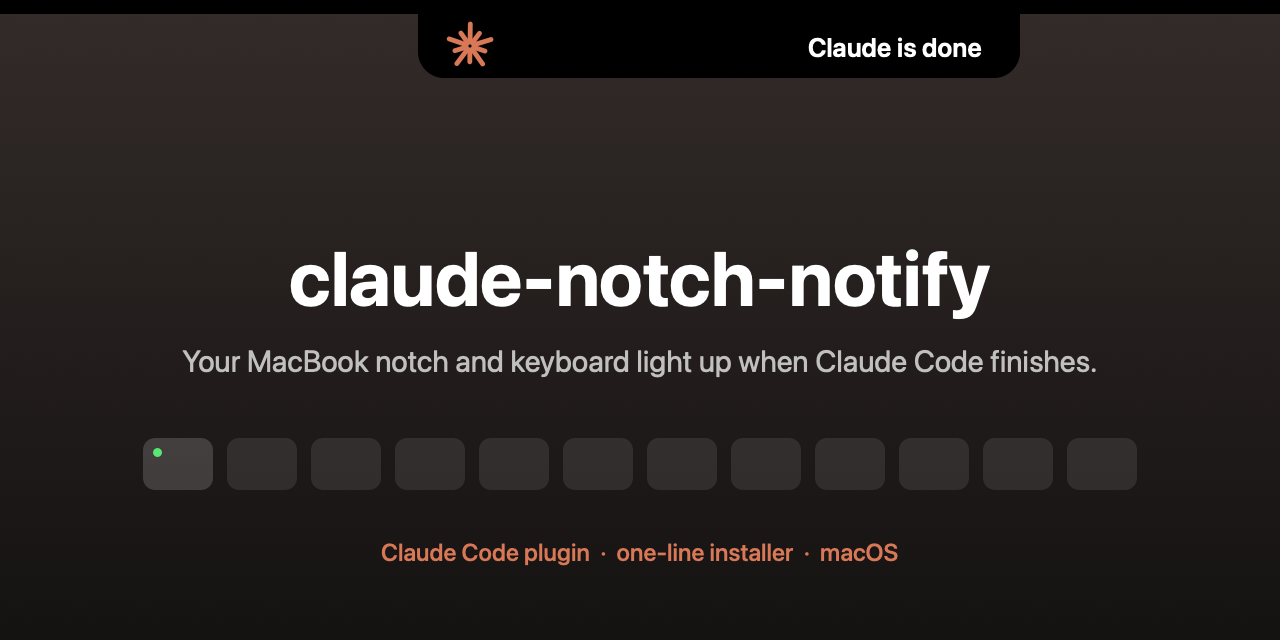
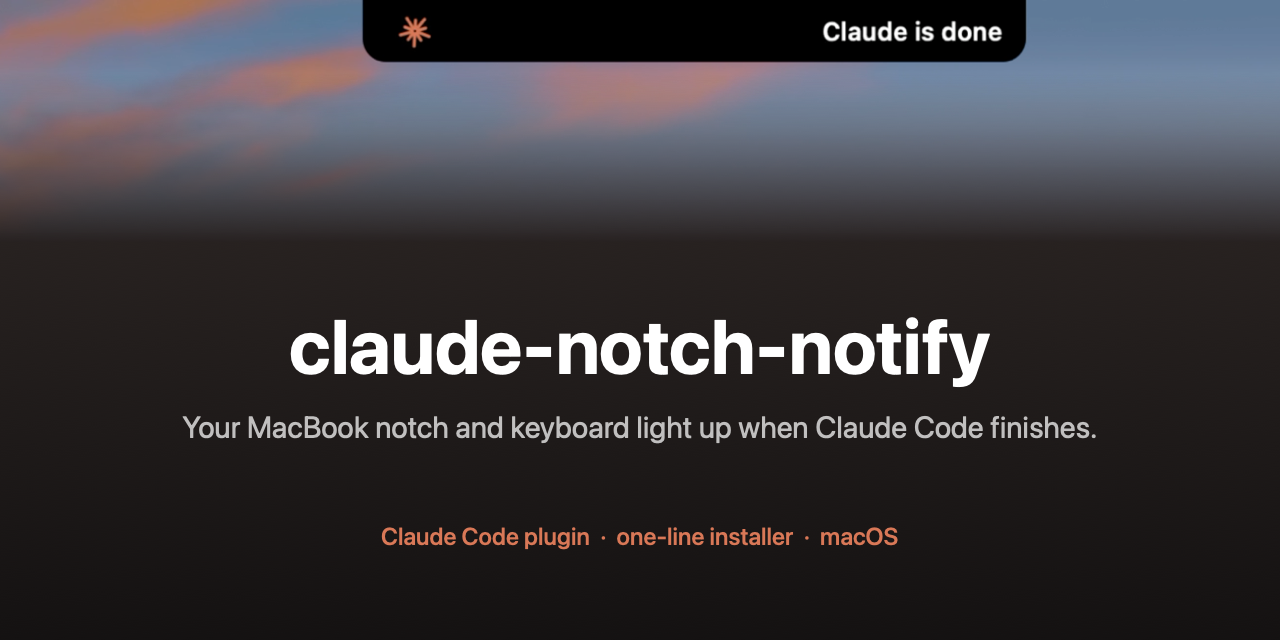
Add demo GIF and a social preview from a real recording
- assets/demo.gif at the top of the README
- assets/social-preview.png now uses a frame from the recording
- scripts/make-gif.swift can trim with start and end times

diff --git a/scripts/make-gif.swift b/scripts/make-gif.swift
@@ -1,6 +1,6 @@
 // Turns a screen recording into a looping GIF using macOS's built-in AVFoundation and ImageIO.
 //
-// Run: swift scripts/make-gif.swift <input.mov> <output.gif> [fps=15] [width=original]
+// Run: swift scripts/make-gif.swift <input.mov> <output.gif> [fps=15] [width=original] [start=0] [end=duration]
 
 import AVFoundation
 import ImageIO
@@ -8,16 +8,19 @@ import UniformTypeIdentifiers
 
 let args = CommandLine.arguments
 guard args.count >= 3 else {
-    print("Usage: swift scripts/make-gif.swift <input.mov> <output.gif> [fps=15] [width]")
+    print("Usage: swift scripts/make-gif.swift <input.mov> <output.gif> [fps=15] [width] [start] [end]")
     exit(1)
 }
 let input = URL(fileURLWithPath: args[1])
 let output = URL(fileURLWithPath: args[2])
 let fps = args.count > 3 ? (Double(args[3]) ?? 15) : 15
-let width = args.count > 4 ? Double(args[4]) : nil
+let width = args.count > 4 ? Double(args[4]).flatMap { $0 > 0 ? $0 : nil } : nil // 0 keeps the original width
 
 let asset = AVURLAsset(url: input)
-let duration = CMTimeGetSeconds(asset.duration)
+let length = CMTimeGetSeconds(asset.duration)
+let start = args.count > 5 ? (Double(args[5]) ?? 0) : 0
+let end = args.count > 6 ? min(Double(args[6]) ?? length, length) : length
+let duration = end - start
 let generator = AVAssetImageGenerator(asset: asset)
 generator.appliesPreferredTrackTransform = true
 generator.requestedTimeToleranceBefore = .zero
@@ -35,7 +38,7 @@ CGImageDestinationSetProperties(dest, [kCGImagePropertyGIFDictionary: [kCGImageP
 let frameProps = [kCGImagePropertyGIFDictionary: [kCGImagePropertyGIFDelayTime: 1 / fps]] as CFDictionary
 
 for i in 0..<frameCount {
-    let time = CMTime(seconds: Double(i) / fps, preferredTimescale: 600)
+    let time = CMTime(seconds: start + Double(i) / fps, preferredTimescale: 600)
     guard let image = try? generator.copyCGImage(at: time, actualTime: nil) else { continue }
     CGImageDestinationAddImage(dest, image, frameProps)
 }

diff --git a/README.md b/README.md
@@ -5,6 +5,8 @@
 **Get a visible alert on your MacBook when Claude Code finishes a reply: your keyboard flashes
 and a little pop-up grows out of the notch.**
 
+![The notch pop-up growing out of the MacBook notch with "Claude is done"](assets/demo.gif)
+
 Stop staring at the terminal while Claude works. Go do something else, and your Mac will let you
 know when it's done (or when it needs your approval).
 
